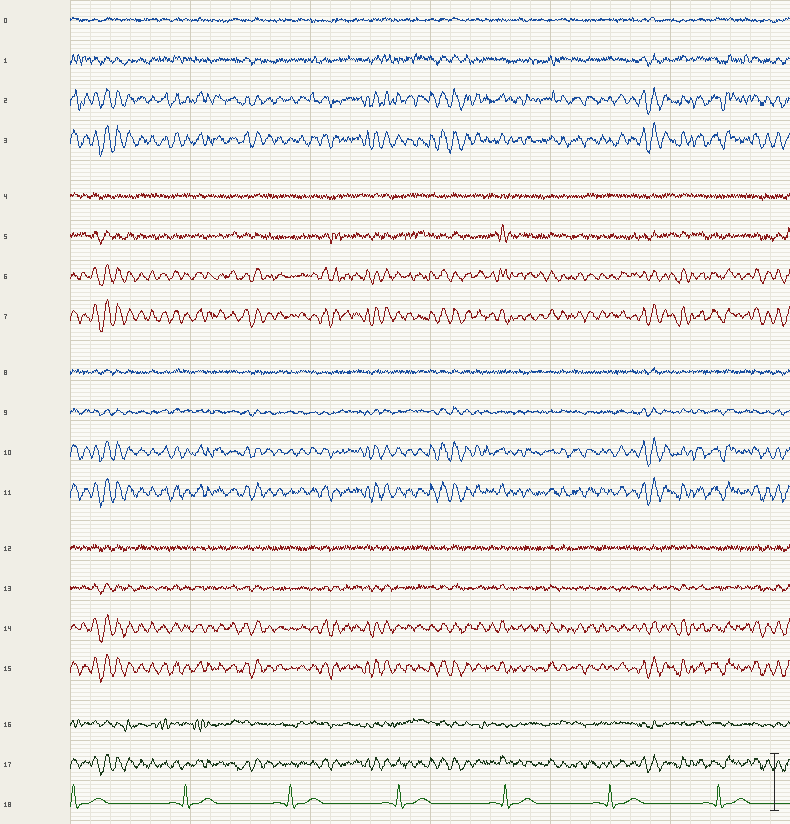
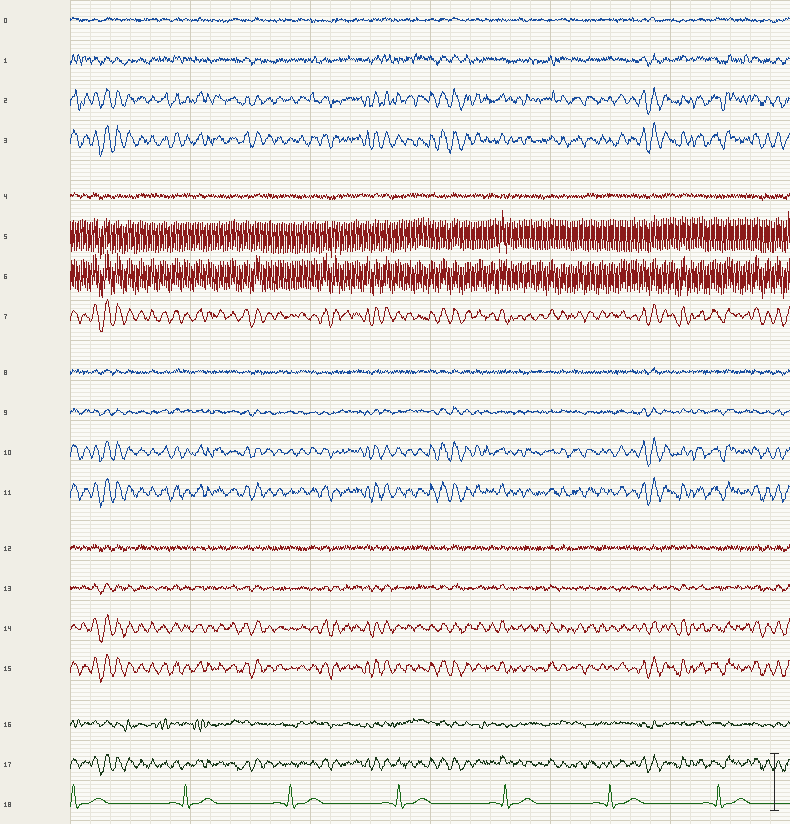
Draw mains on the rows of one poorly connected electrode so the notch has something to remove
Mains reached every electrode almost equally and cancelled on bipolar rows (under 0.4 mm on a
typical row), so ticking the notch changed nothing visible. One scalp contact per subject now
picks up the mains, giving a solid band on its two rows, sized from learningeeg's 60 Hz electrode
artifact figure (0.88 of the page's median row). The notch stays off by default (ACNS Guideline
One 3.6), clears the band when ticked, and closes the mains box while it does.

Adds IK-048 and its gate checks; regenerates the mains info-panel image.

Changed region(s): [[0.0911, 0.2427, 1.0, 0.3641]]

diff --git a/scripts/src/gate/step25-fields-and-timing-against.ts b/scripts/src/gate/step25-fields-and-timing-against.ts
@@ -1,6 +1,10 @@
-import type { PatientState } from '../../../artifacts/eeg-simulator/src/utils/simTypes';
+import type { PatientState, SimSettings } from '../../../artifacts/eeg-simulator/src/utils/simTypes';
+import { defaultArtifactParams, defaultIctalParamsMap, DEFAULT_FILTERS } from '../../../artifacts/eeg-simulator/src/utils/simTypes';
+import { SimulationSource } from '../../../artifacts/eeg-simulator/src/engine/adapter';
+import { MONTAGES } from '../../../artifacts/eeg-simulator/src/utils/montages';
+import { commonAverage, computeChannelVoltage } from '../../../artifacts/eeg-simulator/src/utils/computeChannel';
 import { welch, spectralPeak } from '../dsp';
-import { toggle } from '../../../artifacts/eeg-simulator/src/utils/toggleRules';
+import { toggle, quizPage, effective } from '../../../artifacts/eeg-simulator/src/utils/toggleRules';
 import { ANTERIOR_SITES, FS, IPSI_EAR, POSTERIOR_SITES, SLEEP_OPTS, absPeak, check, displayContribAll, eventIntervals, largestSideDifference, largestStep, meanPeakAt, rmsOf, runEngineState, section, step } from './harness';
 
 // ===========================================================================
@@ -102,6 +106,88 @@ section('\nMains: reaches a bipolar page:', () => {
   const amps = Object.values(bip).map(rmsOf).sort((a, b) => a - b);
   check('mains median double-banana row at the default 5 uV, toggle on minus off (RMS; measured 0.0 uV before the fix)',
     amps[Math.floor(amps.length / 2)], 0.9, 5, ' uV');
+});
+
+// Source: learningeeg, Artifacts — its one mains figure, "60 Hz electrode artifact":
+// "the Fp1 electrode is likely not well connected, leading to a lot of electrical
+// interference", and "this would likely be much reduced with the notch filter". Read
+// against its own background (read skill): a solid band on the two rows that hold Fp1,
+// 37 px peak to peak, against 42 px for the median background row of that slow-wave-
+// sleep page (0.88), and none on the other sixteen rows (2026-11-23). Measured as the
+// app shows it: app mode, its 1 Hz / 70 Hz filters, the default 5 uV of mains.
+
+section('\nMains: a band on the rows of one poorly connected electrode, much reduced by the notch:', () => {
+  const run = (state: PatientState, patterns: Iterable<string>, notch: boolean, seed: number) => {
+    const montage = MONTAGES['bipolar-ap'];
+    const settings: SimSettings = {
+      speed: 30, sensitivity: 7, patientState: state, activePatterns: new Set(patterns),
+      ictalParams: defaultIctalParamsMap(), artifactParams: { ...defaultArtifactParams() },
+      filters: { ...DEFAULT_FILTERS, notchHz: notch ? 50 : null },
+    };
+    const src = new SimulationSource(seed, FS);
+    src.useAppMode();
+    const rows: Record<string, number[]> = {};
+    const chans = montage.channels.filter((c) => c.group !== 'ecg');
+    for (const c of chans) rows[c.label] = [];
+    for (let i = 0; i < 15 * FS; i++) {
+      const v = src.next(settings);
+      const avg = commonAverage(v);
+      if (i >= 5 * FS) for (const c of chans) rows[c.label].push(computeChannelVoltage(c, src.t, v, avg));
+    }
+    return rows;
+  };
+  const p2p = (x: number[]) => {
+    const s = [...x].sort((a, b) => a - b);
+    return s[Math.floor(0.99 * (s.length - 1))] - s[Math.floor(0.01 * (s.length - 1))];
+  };
+  const mainsRows = (notch: boolean, seed: number) => {
+    const on = run('awake', ['50hz'], notch, seed), off = run('awake', [], notch, seed);
+    return Object.keys(on).map((k) => ({ k, p: p2p(on[k].map((v, i) => v - off[k][i])) })).sort((a, b) => b.p - a.p);
+  };
+  const median = (a: number[]) => [...a].sort((p, q) => p - q)[Math.floor(a.length / 2)];
+  let shared = 0, worstOther = 0, worstNotch = 0;
+  const ratios: number[] = [];
+  const SEEDS = [20, 7, 3];
+  for (const seed of SEEDS) {
+    const r = mainsRows(false, seed);
+    const [a, b] = [r[0].k.split('-'), r[1].k.split('-')];
+    const contact = a.find((e) => b.includes(e));
+    if (contact) shared++;
+    const band = Math.min(r[0].p, r[1].p);
+    worstOther = Math.max(worstOther, r[2].p / band);
+    const n3 = run('n3', effective(quizPage(['slow-waves'])), false, seed);
+    ratios.push(band / median(Object.values(n3).map(p2p)));
+    const notched = mainsRows(true, seed);
+    const byRow = (k: string) => notched.find((x) => x.k === k)!.p;
+    worstNotch = Math.max(worstNotch, byRow(r[0].k) / r[0].p, byRow(r[1].k) / r[1].p);
+  }
+  check('mains: subjects whose two largest rows share one electrode (the poor contact)', shared, SEEDS.length, SEEDS.length);
+  check('mains: band on the poor contact\'s rows / the N3 page\'s median row, peak to peak, median of 3 (learningeeg figure: 0.88)',
+    median(ratios), 0.6, 1.2);
+  check('mains: largest other row / the band, worst of 3 (learningeeg figure: nothing on the other rows)', worstOther, 0, 0.2);
+  check('notch 50 Hz: the band with the notch on / off, worst row of 3 subjects (learningeeg: "much reduced")', worstNotch, 0, 0.25);
+  // A box marks what is drawn: none while the notch has taken the mains off the page.
+  const boxesOpen = (notch: boolean, lineFreq: 50 | 60) => {
+    const settings: SimSettings = {
+      speed: 30, sensitivity: 7, patientState: 'awake', activePatterns: new Set(['50hz']),
+      ictalParams: defaultIctalParamsMap(), artifactParams: { ...defaultArtifactParams(), lineFreq },
+      filters: { ...DEFAULT_FILTERS, notchHz: notch ? 50 : null },
+    };
+    const src = new SimulationSource(20, FS);
+    src.useAppMode();
+    const open = new Set<string>();
+    for (let i = 0; i < 3 * FS; i++) {
+      src.next(settings);
+      for (const m of src.groundTruth.marks) {
+        if (m.id !== '50hz' || m.key == null) continue;
+        if (m.span === Infinity) open.add(m.key); else open.delete(m.key);
+      }
+    }
+    return open.size;
+  };
+  check('mains boxes open, 50 Hz mains, notch off', boxesOpen(false, 50), 1, 1);
+  check('mains boxes open, 50 Hz mains under a 50 Hz notch (nothing left to box)', boxesOpen(true, 50), 0, 0);
+  check('mains boxes open, 60 Hz mains under a 50 Hz notch (the notch misses it)', boxesOpen(true, 60), 1, 1);
 });
 
 // Sources: eegpedia (ECG artifact) — "most prominent in referential montages using

diff --git a/artifacts/eeg-simulator/src/engine/chain.ts b/artifacts/eeg-simulator/src/engine/chain.ts
@@ -155,6 +155,30 @@ export type ChannelDefect =
  * high-impedance electrode more, a disconnected one almost none. `process` applies
  * it; the annotation of mains reads it too, so its box follows the bad contact.
  */
+/**
+ * The mains pickup of the one poorly connected electrode, relative to the 0.5-1.5 of
+ * a good contact (2026-11-23).
+ *
+ * Mains reaches every electrode, and almost all of it is equal at all of them, so a
+ * differential amplifier rejects it: on a bipolar row each electrode's share cancels
+ * its neighbour's. What reaches the page is the imbalance a high-impedance contact
+ * makes — so mains is drawn on the rows of that electrode and hardly anywhere else.
+ * learningeeg's only mains figure (Artifacts, "60 Hz electrode artifact": "the Fp1
+ * electrode is likely not well connected") shows exactly that: a solid band on the two
+ * rows that hold Fp1 and nothing on the other sixteen. Before this, with every contact
+ * good, the toggle put 2.4-2.7 uV peak to peak on the median row (0.4 mm at 7 uV/mm,
+ * thinner than the trace) and the notch filter had nothing visible to take away.
+ *
+ * The size is read off that figure against its own background, the one scale an
+ * uncalibrated figure keeps (read skill): the band is 37 px peak to peak (interquartile
+ * 36-37) on both Fp1 rows, against a median of 42 px for the 1st-99th percentile span of
+ * nine cleanly traced background rows on that slow-wave-sleep page — 0.88. The engine's
+ * N3 page has a median row of 60-68 uV by the same estimator, so the band is set to
+ * ~57 uV peak to peak at the default 5 uV mains, through the app's 70 Hz high cut.
+ * One figure: the ratio is a reading of it, not a range from several.
+ */
+export const MAINS_CONTACT_COUPLING = 7;
+
 export function defectLineMultiplier(d: ChannelDefect): number {
   return d.kind === 'noisy' ? d.lineMultiplier : d.kind === 'flat' ? 0.2 : 1;
 }
@@ -278,6 +302,11 @@ export class RecordingChain {
   /** How much of the mains this electrode picks up, relative to the others. */
   lineCouplingAt(c: number): number {
     return this.lineCoupling[c];
+  }
+
+  /** Make electrode `c` the poorly connected one the mains shows on (MAINS_CONTACT_COUPLING). */
+  setMainsContact(c: number) {
+    this.lineCoupling[c] = MAINS_CONTACT_COUPLING;
   }
 
   /**

diff --git a/artifacts/eeg-simulator/src/engine/artifactLayer.ts b/artifacts/eeg-simulator/src/engine/artifactLayer.ts
@@ -289,6 +289,11 @@ export class ArtifactLayer {
   /** Mains amplitude now, microvolts, for the recording chain. */
   get lineAmp(): number { return this.aparams.lineAmpUv ?? this.subject.lineAmp; }
 
+  // The reader's notch (the top bar), Hz, or null when off.
+  private notchHz: number | null = null;
+  /** The notch now set, so the mains box closes while the notch takes the mains away. */
+  setNotch(hz: number | null) { this.notchHz = hz; }
+
   /**
    * Add this sample's artifact sources into the source vector `V`, and report their
    * marks when `marking`. Returns the mains value for the recording chain.
@@ -384,7 +389,10 @@ export class ArtifactLayer {
       // present in the signals should be by design").
       M.markWhile('muscle', g.emg && atonia > 0.5 && emgSev > 0, this.muscleField(regions));
       M.markWhile('sweat', g.sweat, F.sweat);
-      M.markWhile('50hz', g.line, this.lineField(), { inUv: true });
+      // Not while a notch at the mains frequency has taken it off the page: a box marks
+      // what is drawn. A 50 Hz notch against 60 Hz mains leaves it, and its box.
+      const notched = this.notchHz != null && this.notchHz === (this.aparams.lineFreq ?? this.subject.lineFreq);
+      M.markWhile('50hz', g.line && !notched, this.lineField(), { inUv: true });
       M.markWhile('bad-electrodes', g.defects && this.hasDefects, F.defects);
       // Between its two arrows, the eyes are open and the alpha rhythm is blocked
       // everywhere: that stretch is part of the manoeuvre, so it is boxed too.

diff --git a/scripts/src/gate/step27-annotation-arrows-every-artifact.ts b/scripts/src/gate/step27-annotation-arrows-every-artifact.ts
@@ -373,7 +373,7 @@ section(null, () => {
     check(`arrows: ${toggle} rows moved by half its largest row or more and never pointed at`, r.rowsLeftOut.length, 0, 0);
   }
 
-  console.log('\nECG and mains: under a millimetre on this montage, so on one row and not ten:');
+  console.log('\nECG under a millimetre on this montage, so on one row and not ten; mains on the two rows of its poor contact:');
   {
     const ecg = survey('awake', ['ecg-artifact'], 'ecg-artifact');
     check('arrows: ecg-artifact longest stretch with no arrow (one a beat)', ecg.longestGap, 0, 2, ' s');
@@ -381,7 +381,7 @@ section(null, () => {
       Math.max(...ecg.marks.map((m) => m.rows.length)), 1, 1);
     const mains = survey('awake', ['50hz'], '50hz');
     check('boxes: 50hz boxes over the whole run (one)', wholeRun(mains), 1, 1);
-    check('boxes: 50hz rows boxed, bipolar-ap at 7 uV/mm', Math.max(...mains.marks.map((m) => m.rows.length)), 1, 1);
+    check('boxes: 50hz rows boxed, bipolar-ap at 7 uV/mm (the two rows of its poor contact)', Math.max(...mains.marks.map((m) => m.rows.length)), 2, 2);
   }
 
   console.log('\nSpindles: each kind pointed at where it is, not both everywhere:');

diff --git a/artifacts/eeg-simulator/src/engine/engine.ts b/artifacts/eeg-simulator/src/engine/engine.ts
@@ -468,6 +468,11 @@ export class EegEngine {
     if (recordingChain) {
       this.defects = sampleDefects(seed, this.electrodes.length, S.artifactBurden);
       this.chain = new RecordingChain(seed, this.dt, this.electrodes.length, this.defects);
+      // The one scalp contact that picks up the mains (chain.ts MAINS_CONTACT_COUPLING),
+      // never an ear reference, from its own stream so no other draw moves.
+      const scalp = this.electrodes.flatMap((e, c) => (/^A[12]$/.test(e) ? [] : [c]));
+      const gContact = new Gaussian(deriveSeed(seed, 'mainsContact'));
+      this.chain.setMainsContact(scalp[Math.floor(gContact.uniform() * scalp.length)]);
     }
 
     // One unit field per electrode: a mark on a single channel (a pop, the breach).
@@ -714,6 +719,7 @@ export class EegEngine {
     if (f === this.filters) return;
     this.filters = f;
     if (f && this.chain) this.chain.setFilters(f);
+    this.artifactLayer.setNotch(f?.notchHz ?? null);
   }
 
   /** Choices between forms of one pattern (see `PatternOptions`); omitted means the defaults. */

diff --git a/artifacts/eeg-simulator/src/utils/patternInfo.ts b/artifacts/eeg-simulator/src/utils/patternInfo.ts
@@ -142,7 +142,7 @@ export const PATTERN_INFO: Record<string, PatternInfo> = {
   },
   '50hz': {
     summary: 'Mains (AC line) interference: very fast, monotonous activity at the mains frequency — 50 Hz in India, Britain and most of the world, 60 Hz in the Americas. It is uneven across the page and worst on the rows of a poorly connected electrode. The notch filter in the top bar removes it.',
-    seenIn: 'Any state, near electrical equipment or with high electrode impedance. It is not biological; fixing the electrode is better than notching, since the notch also removes real activity at that frequency.',
+    seenIn: 'Any state, near electrical equipment or with high electrode impedance. It is not biological. Re-gelling the electrode is the fix; the notch is kept off by default and used only when that fails, because it can distort or blunt spikes.',
   },
 
   // ── Non-epileptiform abnormalities ─────────────────────────────────────────

diff --git a/INFORMING-KNOWLEDGE.md b/INFORMING-KNOWLEDGE.md
@@ -7,7 +7,7 @@ This file is not documentation of how the code works — the engine source (`src
 that. This is a list of things that must remain **true of the output**, whatever the
 implementation happens to be.
 
-> **47 entries · highest ID `IK-047` · 45 enforced by an automated check, 2 unverified in code.**
+> **48 entries · highest ID `IK-048` · 45 enforced by an automated check, 3 unverified in code.**
 
 ---
 
@@ -998,6 +998,45 @@ fast activity on Fp2-F4 and Fp2-F8 around each blink for about half a second), w
 that the blink's muscle component be "more subtle than the actual muscle eeg artifact". The
 0.1–0.4 ratio and the 1.8–4 width spread are Claude's numbers for those words, not measured from a
 source. Approved by the user 2026-11-20.
+
+### IK-048 — Mains interference shows on the rows of a poorly connected electrode, and the notch takes it away
+
+**Claim.** Mains interference is very fast, monotonous activity at the mains frequency (50 Hz in
+India and most of the world, 60 Hz in the Americas). It appears as a dense band on the derivations
+that include one poorly connected electrode and little or nothing elsewhere. A notch filter at the
+mains frequency much reduces it. The notch is off by default and used only when other measures
+fail, because it can distort or attenuate spikes.
+
+**Observable.** Montage `bipolar-ap`, state `awake`, toggle `50hz`, the app's 1/70 Hz filters at
+the default 5 µV, three subjects. The two largest rows share one electrode (currently 3 of 3). The
+band divided by the N3 page's median row, peak to peak, is 0.6–1.2 (currently 0.80; learningeeg
+figure 0.88). The largest other row is at most 0.2 of the band (currently 0.156). With a 50 Hz
+notch on, at most 0.25 of the band remains (currently 0.127). The mains box is open with the notch
+off, closed under a matching notch, and open under a mismatched one (60 Hz mains, 50 Hz notch). The
+app opens with the notch off.
+
+**Mechanism.** *(non-binding)* The amplifier rejects interference common to both inputs; a contact's
+impedance imbalance turns part of it into a difference between them.
+
+**Check.** `validateEngine.ts` Step 25 — `check('mains: subjects whose two largest rows share one
+electrode (the poor contact)', …)`, `check('mains: band on the poor contact\'s rows / the N3 page\'s
+median row, peak to peak, median of 3 (learningeeg figure: 0.88)', …)`, `check('mains: largest
+other row / the band, worst of 3 (learningeeg figure: nothing on the other rows)', …)`,
+`check('notch 50 Hz: the band with the notch on / off, worst row of 3 subjects (learningeeg: "much
+reduced")', …)`, `check('mains boxes open, 50 Hz mains, notch off', …)`, `check('mains boxes open,
+50 Hz mains under a 50 Hz notch (nothing left to box)', …)`, `check('mains boxes open, 60 Hz mains
+under a 50 Hz notch (the notch misses it)', …)`; Step 27 — `check('boxes: 50hz rows boxed,
+bipolar-ap at 7 uV/mm (the two rows of its poor contact)', …)`.
+
+**Status.** unverified in code · **Source.** learningeeg, Artifacts — its one mains figure, "60 Hz
+electrode artifact" ("the Fp1 electrode is likely not well connected, leading to a lot of
+electrical interference"; "this would likely be much reduced with the notch filter"); ACNS
+Guideline One (Epstein 2009) §3.6 ("The 60-Hz notch filter can distort or attenuate spikes; it
+therefore should be used only when other measures against 60 Hz interference fail"). The figure was
+measured against its own background on 2026-11-23: a 37 px band against a 42 px median background
+row on its slow-wave-sleep page. One figure, so the ratio is a reading of it, not a range. The
+notch-off default and the poor-contact model are the owner's choice (2026-11-23). Approved by the
+user 2026-11-23.
 
 ## 5. Normal variants
 
